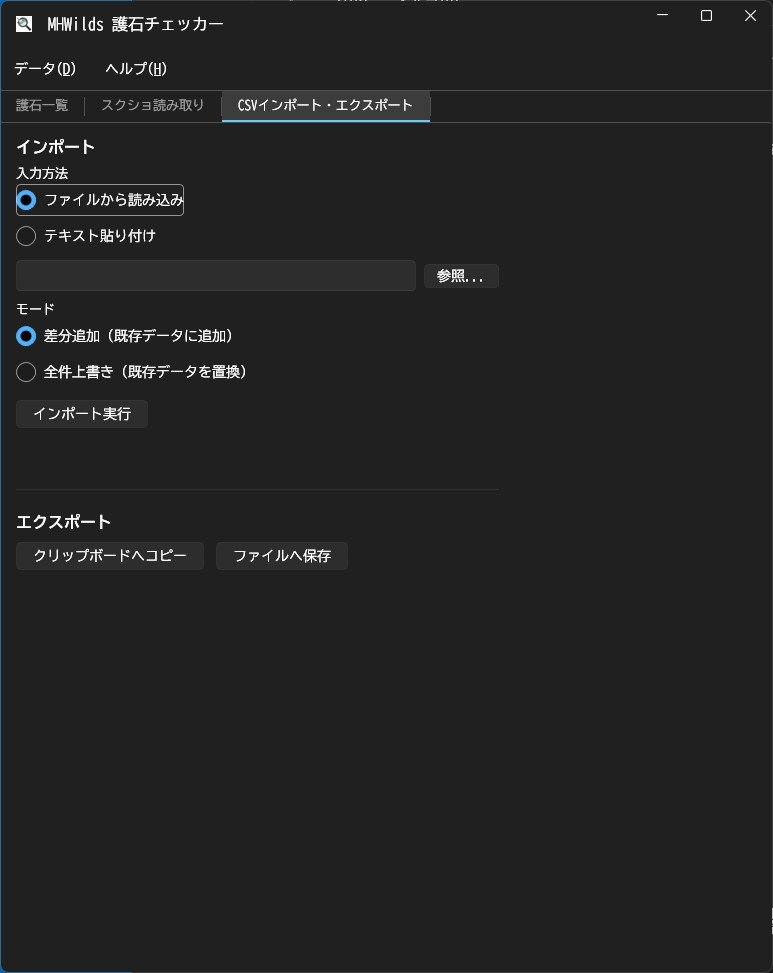
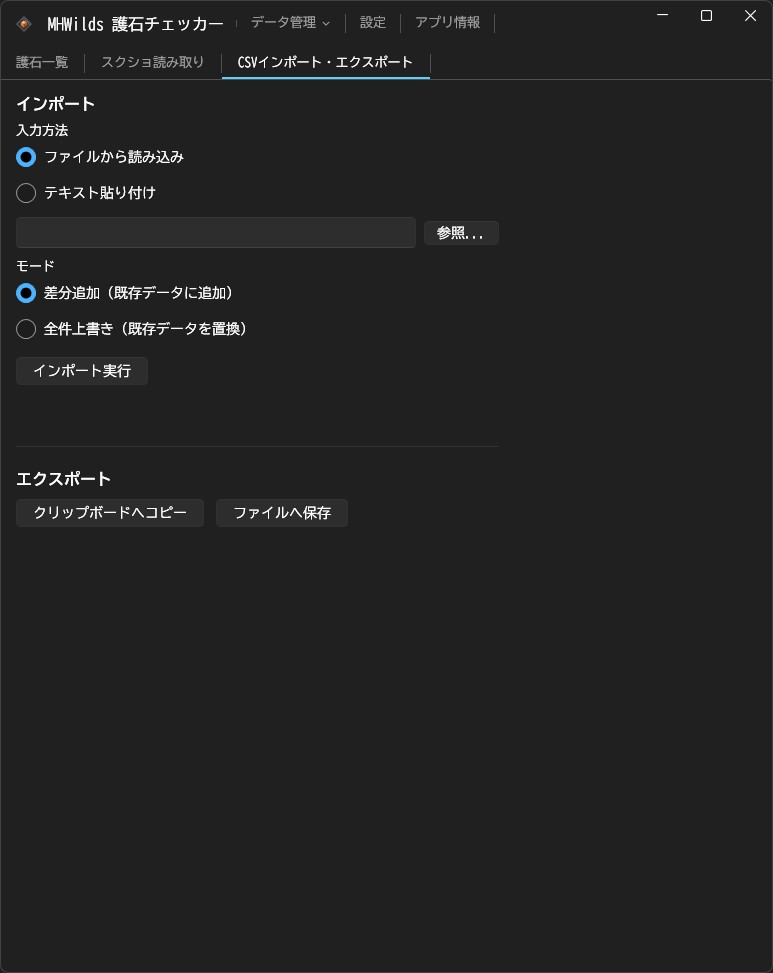
docs: READMEのメニュー説明とアプリのスクリーンショットを最新のUIに更新

diff --git a/README.md b/README.md
@@ -60,7 +60,7 @@ Windows x64向けの自己完結（self-contained）ポータブルzipを[GitHub
 
    ![CSVインポート・エクスポートタブ](docs/screenshot-app-csv-tab.jpg)
 
-メニューの「データ」からはローカルデータ（アプリ内部形式）のエクスポート・インポート・初期化ができる。「ヘルプ」からは設定（スクリーンショットフォルダ等）とアプリ情報を確認できる。
+タイトルバーの「データ管理」からはローカルデータ（アプリ内部形式）のエクスポート・インポート・初期化ができる。「設定」ではスクリーンショットフォルダとテーマ（Windowsの設定に合わせる／ライト／ダーク、既定はWindowsの設定に合わせる）を設定でき、「アプリ情報」ではバージョンや使用ライブラリを確認できる。それぞれ Alt+D／Alt+S／Alt+A のキー操作でも開ける。
 
 OCR・スロット判定は自動処理のため、**読み取り結果に誤りが含まれる可能性がある**。護石一覧タブでの内容確認、または重複チェック結果の確認を推奨する。
 
